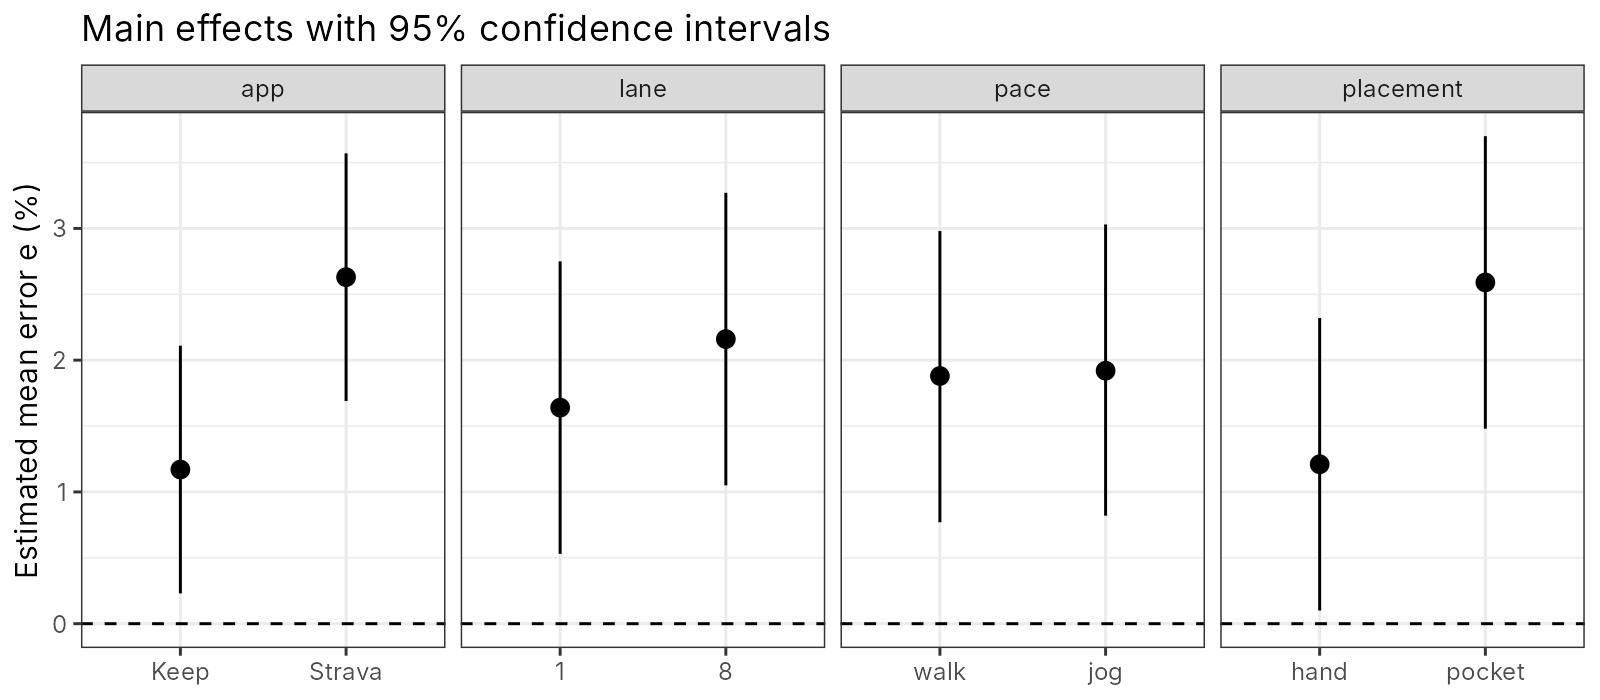
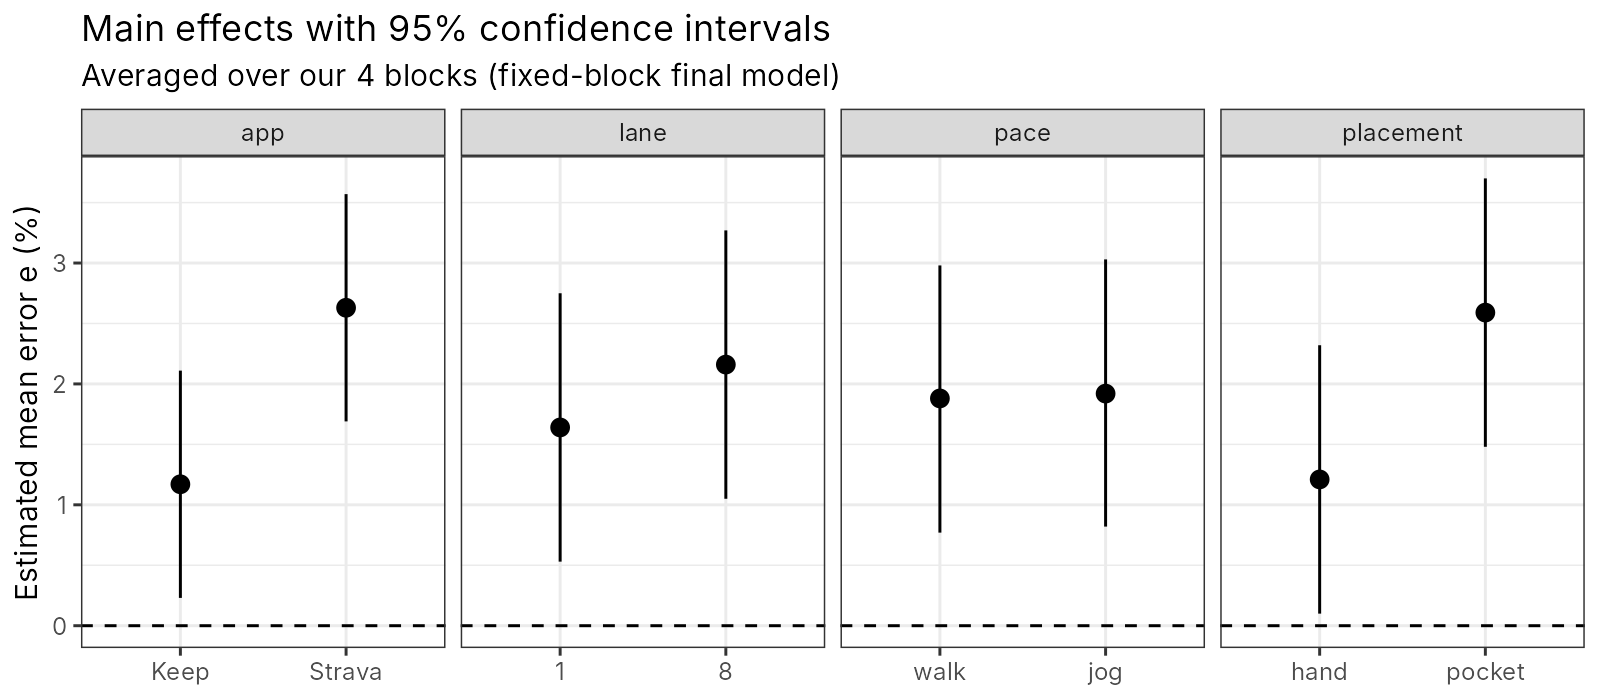
Label the main-effects plot as averaged over our 4 blocks

diff --git a/docs/index.html b/docs/index.html
@@ -1505,7 +1505,7 @@ plus the 10 m resolution, so power is limited and “not detected” must be
 read with care.</p>
 <details class="rcode">
 <summary>
-R code · <code>code/02_analysis.R</code>, lines 172–227
+R code · <code>code/02_analysis.R</code>, lines 172–228
 </summary>
 <div class="sourceCode" id="en-cb10"><pre
 class="sourceCode r"><code class="sourceCode r"><span id="en-cb10-1"><a href="#en-cb10-1" aria-hidden="true" tabindex="-1"></a><span class="co"># ---- 6. Estimated effects (aims 1 and 2) ------------------------------------</span></span>
@@ -1540,32 +1540,33 @@ class="sourceCode r"><code class="sourceCode r"><span id="en-cb10-1"><a href="#e
 <span id="en-cb10-30"><a href="#en-cb10-30" aria-hidden="true" tabindex="-1"></a>  <span class="fu">geom_pointrange</span>(<span class="fu">aes</span>(<span class="at">ymin =</span> lower.CL, <span class="at">ymax =</span> upper.CL)) <span class="sc">+</span></span>
 <span id="en-cb10-31"><a href="#en-cb10-31" aria-hidden="true" tabindex="-1"></a>  <span class="fu">facet_wrap</span>(<span class="sc">~</span> factor, <span class="at">scales =</span> <span class="st">&quot;free_x&quot;</span>, <span class="at">nrow =</span> <span class="dv">1</span>) <span class="sc">+</span></span>
 <span id="en-cb10-32"><a href="#en-cb10-32" aria-hidden="true" tabindex="-1"></a>  <span class="fu">labs</span>(<span class="at">x =</span> <span class="cn">NULL</span>, <span class="at">y =</span> <span class="st">&quot;Estimated mean error e (%)&quot;</span>,</span>
-<span id="en-cb10-33"><a href="#en-cb10-33" aria-hidden="true" tabindex="-1"></a>       <span class="at">title =</span> <span class="st">&quot;Main effects with 95% confidence intervals&quot;</span>) <span class="sc">+</span></span>
-<span id="en-cb10-34"><a href="#en-cb10-34" aria-hidden="true" tabindex="-1"></a>  <span class="fu">theme_bw</span>()</span>
-<span id="en-cb10-35"><a href="#en-cb10-35" aria-hidden="true" tabindex="-1"></a><span class="fu">ggsave</span>(<span class="st">&quot;figures/04_main_effects.png&quot;</span>, p_main, <span class="at">width =</span> <span class="dv">8</span>, <span class="at">height =</span> <span class="fl">3.5</span>, <span class="at">dpi =</span> <span class="dv">200</span>)</span>
-<span id="en-cb10-36"><a href="#en-cb10-36" aria-hidden="true" tabindex="-1"></a></span>
-<span id="en-cb10-37"><a href="#en-cb10-37" aria-hidden="true" tabindex="-1"></a><span class="co"># Interaction plots for the two-factor interactions of primary interest:</span></span>
-<span id="en-cb10-38"><a href="#en-cb10-38" aria-hidden="true" tabindex="-1"></a><span class="co"># x-axis factor, line (trace) factor</span></span>
-<span id="en-cb10-39"><a href="#en-cb10-39" aria-hidden="true" tabindex="-1"></a>pairs_of_interest <span class="ot">&lt;-</span> <span class="fu">list</span>(<span class="fu">c</span>(<span class="st">&quot;lane&quot;</span>, <span class="st">&quot;pace&quot;</span>), <span class="fu">c</span>(<span class="st">&quot;placement&quot;</span>, <span class="st">&quot;pace&quot;</span>),</span>
-<span id="en-cb10-40"><a href="#en-cb10-40" aria-hidden="true" tabindex="-1"></a>                          <span class="fu">c</span>(<span class="st">&quot;lane&quot;</span>, <span class="st">&quot;app&quot;</span>), <span class="fu">c</span>(<span class="st">&quot;pace&quot;</span>, <span class="st">&quot;app&quot;</span>))</span>
-<span id="en-cb10-41"><a href="#en-cb10-41" aria-hidden="true" tabindex="-1"></a>int_data <span class="ot">&lt;-</span> <span class="fu">do.call</span>(rbind, <span class="fu">lapply</span>(pairs_of_interest, <span class="cf">function</span>(p) {</span>
-<span id="en-cb10-42"><a href="#en-cb10-42" aria-hidden="true" tabindex="-1"></a>  em <span class="ot">&lt;-</span> <span class="fu">as.data.frame</span>(<span class="fu">emmeans</span>(fit, <span class="fu">as.formula</span>(<span class="fu">paste</span>(<span class="st">&quot;~&quot;</span>, p[<span class="dv">1</span>], <span class="st">&quot;*&quot;</span>, p[<span class="dv">2</span>]))))</span>
-<span id="en-cb10-43"><a href="#en-cb10-43" aria-hidden="true" tabindex="-1"></a>  <span class="fu">data.frame</span>(<span class="at">panel =</span> <span class="fu">paste</span>(p[<span class="dv">1</span>], <span class="st">&quot;x&quot;</span>, p[<span class="dv">2</span>]),</span>
-<span id="en-cb10-44"><a href="#en-cb10-44" aria-hidden="true" tabindex="-1"></a>             <span class="at">x =</span> <span class="fu">as.character</span>(em[[p[<span class="dv">1</span>]]]), <span class="at">trace =</span> <span class="fu">as.character</span>(em[[p[<span class="dv">2</span>]]]),</span>
-<span id="en-cb10-45"><a href="#en-cb10-45" aria-hidden="true" tabindex="-1"></a>             <span class="at">emmean =</span> em<span class="sc">$</span>emmean)</span>
-<span id="en-cb10-46"><a href="#en-cb10-46" aria-hidden="true" tabindex="-1"></a>}))</span>
-<span id="en-cb10-47"><a href="#en-cb10-47" aria-hidden="true" tabindex="-1"></a><span class="co"># keep the level order used in the data (walk before jog, etc.)</span></span>
-<span id="en-cb10-48"><a href="#en-cb10-48" aria-hidden="true" tabindex="-1"></a>int_data<span class="sc">$</span>x     <span class="ot">&lt;-</span> <span class="fu">factor</span>(int_data<span class="sc">$</span>x, <span class="at">levels =</span> <span class="fu">unique</span>(int_data<span class="sc">$</span>x))</span>
-<span id="en-cb10-49"><a href="#en-cb10-49" aria-hidden="true" tabindex="-1"></a>int_data<span class="sc">$</span>trace <span class="ot">&lt;-</span> <span class="fu">factor</span>(int_data<span class="sc">$</span>trace, <span class="at">levels =</span> <span class="fu">unique</span>(int_data<span class="sc">$</span>trace))</span>
-<span id="en-cb10-50"><a href="#en-cb10-50" aria-hidden="true" tabindex="-1"></a>p_int <span class="ot">&lt;-</span> <span class="fu">ggplot</span>(int_data, <span class="fu">aes</span>(<span class="at">x =</span> x, <span class="at">y =</span> emmean, <span class="at">colour =</span> trace, <span class="at">group =</span> trace)) <span class="sc">+</span></span>
-<span id="en-cb10-51"><a href="#en-cb10-51" aria-hidden="true" tabindex="-1"></a>  <span class="fu">geom_point</span>(<span class="at">size =</span> <span class="dv">2</span>) <span class="sc">+</span> <span class="fu">geom_line</span>() <span class="sc">+</span></span>
-<span id="en-cb10-52"><a href="#en-cb10-52" aria-hidden="true" tabindex="-1"></a>  <span class="fu">facet_wrap</span>(<span class="sc">~</span> panel, <span class="at">scales =</span> <span class="st">&quot;free_x&quot;</span>) <span class="sc">+</span></span>
-<span id="en-cb10-53"><a href="#en-cb10-53" aria-hidden="true" tabindex="-1"></a>  <span class="fu">labs</span>(<span class="at">x =</span> <span class="cn">NULL</span>, <span class="at">y =</span> <span class="st">&quot;Estimated mean error e (%)&quot;</span>, <span class="at">colour =</span> <span class="st">&quot;Line&quot;</span>,</span>
-<span id="en-cb10-54"><a href="#en-cb10-54" aria-hidden="true" tabindex="-1"></a>       <span class="at">title =</span> <span class="st">&quot;Two-factor interactions (parallel lines = no interaction)&quot;</span>) <span class="sc">+</span></span>
-<span id="en-cb10-55"><a href="#en-cb10-55" aria-hidden="true" tabindex="-1"></a>  <span class="fu">theme_bw</span>()</span>
-<span id="en-cb10-56"><a href="#en-cb10-56" aria-hidden="true" tabindex="-1"></a><span class="fu">ggsave</span>(<span class="st">&quot;figures/05_interactions.png&quot;</span>, p_int, <span class="at">width =</span> <span class="dv">8</span>, <span class="at">height =</span> <span class="dv">6</span>, <span class="at">dpi =</span> <span class="dv">200</span>)</span></code></pre></div>
+<span id="en-cb10-33"><a href="#en-cb10-33" aria-hidden="true" tabindex="-1"></a>       <span class="at">title =</span> <span class="st">&quot;Main effects with 95% confidence intervals&quot;</span>,</span>
+<span id="en-cb10-34"><a href="#en-cb10-34" aria-hidden="true" tabindex="-1"></a>       <span class="at">subtitle =</span> <span class="st">&quot;Averaged over our 4 blocks (fixed-block final model)&quot;</span>) <span class="sc">+</span></span>
+<span id="en-cb10-35"><a href="#en-cb10-35" aria-hidden="true" tabindex="-1"></a>  <span class="fu">theme_bw</span>()</span>
+<span id="en-cb10-36"><a href="#en-cb10-36" aria-hidden="true" tabindex="-1"></a><span class="fu">ggsave</span>(<span class="st">&quot;figures/04_main_effects.png&quot;</span>, p_main, <span class="at">width =</span> <span class="dv">8</span>, <span class="at">height =</span> <span class="fl">3.5</span>, <span class="at">dpi =</span> <span class="dv">200</span>)</span>
+<span id="en-cb10-37"><a href="#en-cb10-37" aria-hidden="true" tabindex="-1"></a></span>
+<span id="en-cb10-38"><a href="#en-cb10-38" aria-hidden="true" tabindex="-1"></a><span class="co"># Interaction plots for the two-factor interactions of primary interest:</span></span>
+<span id="en-cb10-39"><a href="#en-cb10-39" aria-hidden="true" tabindex="-1"></a><span class="co"># x-axis factor, line (trace) factor</span></span>
+<span id="en-cb10-40"><a href="#en-cb10-40" aria-hidden="true" tabindex="-1"></a>pairs_of_interest <span class="ot">&lt;-</span> <span class="fu">list</span>(<span class="fu">c</span>(<span class="st">&quot;lane&quot;</span>, <span class="st">&quot;pace&quot;</span>), <span class="fu">c</span>(<span class="st">&quot;placement&quot;</span>, <span class="st">&quot;pace&quot;</span>),</span>
+<span id="en-cb10-41"><a href="#en-cb10-41" aria-hidden="true" tabindex="-1"></a>                          <span class="fu">c</span>(<span class="st">&quot;lane&quot;</span>, <span class="st">&quot;app&quot;</span>), <span class="fu">c</span>(<span class="st">&quot;pace&quot;</span>, <span class="st">&quot;app&quot;</span>))</span>
+<span id="en-cb10-42"><a href="#en-cb10-42" aria-hidden="true" tabindex="-1"></a>int_data <span class="ot">&lt;-</span> <span class="fu">do.call</span>(rbind, <span class="fu">lapply</span>(pairs_of_interest, <span class="cf">function</span>(p) {</span>
+<span id="en-cb10-43"><a href="#en-cb10-43" aria-hidden="true" tabindex="-1"></a>  em <span class="ot">&lt;-</span> <span class="fu">as.data.frame</span>(<span class="fu">emmeans</span>(fit, <span class="fu">as.formula</span>(<span class="fu">paste</span>(<span class="st">&quot;~&quot;</span>, p[<span class="dv">1</span>], <span class="st">&quot;*&quot;</span>, p[<span class="dv">2</span>]))))</span>
+<span id="en-cb10-44"><a href="#en-cb10-44" aria-hidden="true" tabindex="-1"></a>  <span class="fu">data.frame</span>(<span class="at">panel =</span> <span class="fu">paste</span>(p[<span class="dv">1</span>], <span class="st">&quot;x&quot;</span>, p[<span class="dv">2</span>]),</span>
+<span id="en-cb10-45"><a href="#en-cb10-45" aria-hidden="true" tabindex="-1"></a>             <span class="at">x =</span> <span class="fu">as.character</span>(em[[p[<span class="dv">1</span>]]]), <span class="at">trace =</span> <span class="fu">as.character</span>(em[[p[<span class="dv">2</span>]]]),</span>
+<span id="en-cb10-46"><a href="#en-cb10-46" aria-hidden="true" tabindex="-1"></a>             <span class="at">emmean =</span> em<span class="sc">$</span>emmean)</span>
+<span id="en-cb10-47"><a href="#en-cb10-47" aria-hidden="true" tabindex="-1"></a>}))</span>
+<span id="en-cb10-48"><a href="#en-cb10-48" aria-hidden="true" tabindex="-1"></a><span class="co"># keep the level order used in the data (walk before jog, etc.)</span></span>
+<span id="en-cb10-49"><a href="#en-cb10-49" aria-hidden="true" tabindex="-1"></a>int_data<span class="sc">$</span>x     <span class="ot">&lt;-</span> <span class="fu">factor</span>(int_data<span class="sc">$</span>x, <span class="at">levels =</span> <span class="fu">unique</span>(int_data<span class="sc">$</span>x))</span>
+<span id="en-cb10-50"><a href="#en-cb10-50" aria-hidden="true" tabindex="-1"></a>int_data<span class="sc">$</span>trace <span class="ot">&lt;-</span> <span class="fu">factor</span>(int_data<span class="sc">$</span>trace, <span class="at">levels =</span> <span class="fu">unique</span>(int_data<span class="sc">$</span>trace))</span>
+<span id="en-cb10-51"><a href="#en-cb10-51" aria-hidden="true" tabindex="-1"></a>p_int <span class="ot">&lt;-</span> <span class="fu">ggplot</span>(int_data, <span class="fu">aes</span>(<span class="at">x =</span> x, <span class="at">y =</span> emmean, <span class="at">colour =</span> trace, <span class="at">group =</span> trace)) <span class="sc">+</span></span>
+<span id="en-cb10-52"><a href="#en-cb10-52" aria-hidden="true" tabindex="-1"></a>  <span class="fu">geom_point</span>(<span class="at">size =</span> <span class="dv">2</span>) <span class="sc">+</span> <span class="fu">geom_line</span>() <span class="sc">+</span></span>
+<span id="en-cb10-53"><a href="#en-cb10-53" aria-hidden="true" tabindex="-1"></a>  <span class="fu">facet_wrap</span>(<span class="sc">~</span> panel, <span class="at">scales =</span> <span class="st">&quot;free_x&quot;</span>) <span class="sc">+</span></span>
+<span id="en-cb10-54"><a href="#en-cb10-54" aria-hidden="true" tabindex="-1"></a>  <span class="fu">labs</span>(<span class="at">x =</span> <span class="cn">NULL</span>, <span class="at">y =</span> <span class="st">&quot;Estimated mean error e (%)&quot;</span>, <span class="at">colour =</span> <span class="st">&quot;Line&quot;</span>,</span>
+<span id="en-cb10-55"><a href="#en-cb10-55" aria-hidden="true" tabindex="-1"></a>       <span class="at">title =</span> <span class="st">&quot;Two-factor interactions (parallel lines = no interaction)&quot;</span>) <span class="sc">+</span></span>
+<span id="en-cb10-56"><a href="#en-cb10-56" aria-hidden="true" tabindex="-1"></a>  <span class="fu">theme_bw</span>()</span>
+<span id="en-cb10-57"><a href="#en-cb10-57" aria-hidden="true" tabindex="-1"></a><span class="fu">ggsave</span>(<span class="st">&quot;figures/05_interactions.png&quot;</span>, p_int, <span class="at">width =</span> <span class="dv">8</span>, <span class="at">height =</span> <span class="dv">6</span>, <span class="at">dpi =</span> <span class="dv">200</span>)</span></code></pre></div>
 <p class="rcode-link">
-<a href="https://github.com/z-boyi/gps-running-accuracy-doe/blob/main/code/02_analysis.R#L172-L227">View
+<a href="https://github.com/z-boyi/gps-running-accuracy-doe/blob/main/code/02_analysis.R#L172-L228">View
 on GitHub</a>
 </p>
 </details>
@@ -1614,7 +1615,7 @@ assumption and see whether the conclusion holds. If it does, the
 conclusion does not depend on that assumption.</p>
 <details class="rcode">
 <summary>
-R code · <code>code/02_analysis.R</code>, lines 229–242
+R code · <code>code/02_analysis.R</code>, lines 230–243
 </summary>
 <div class="sourceCode" id="en-cb11"><pre
 class="sourceCode r"><code class="sourceCode r"><span id="en-cb11-1"><a href="#en-cb11-1" aria-hidden="true" tabindex="-1"></a><span class="co"># ---- 7. Sensitivity to the true lap length ----------------------------------</span></span>
@@ -1632,7 +1633,7 @@ class="sourceCode r"><code class="sourceCode r"><span id="en-cb11-1"><a href="#e
 <span id="en-cb11-13"><a href="#en-cb11-13" aria-hidden="true" tabindex="-1"></a>              a[<span class="st">&quot;block:app&quot;</span>, <span class="st">&quot;Pr(&gt;F)&quot;</span>], a[<span class="st">&quot;app&quot;</span>, <span class="st">&quot;Pr(&gt;F)&quot;</span>]))</span>
 <span id="en-cb11-14"><a href="#en-cb11-14" aria-hidden="true" tabindex="-1"></a>}</span></code></pre></div>
 <p class="rcode-link">
-<a href="https://github.com/z-boyi/gps-running-accuracy-doe/blob/main/code/02_analysis.R#L229-L242">View
+<a href="https://github.com/z-boyi/gps-running-accuracy-doe/blob/main/code/02_analysis.R#L230-L243">View
 on GitHub</a>
 </p>
 </details>
@@ -3070,7 +3071,7 @@ app × 组合只有 4 个读数，再加上 10 m
 的精度限制，功效有限。所以“没检测到”要谨慎解读。</p>
 <details class="rcode">
 <summary>
-R 代码 · <code>code/02_analysis.R</code> 第 172–227 行
+R 代码 · <code>code/02_analysis.R</code> 第 172–228 行
 </summary>
 <div class="sourceCode" id="zh-cb10"><pre
 class="sourceCode r"><code class="sourceCode r"><span id="zh-cb10-1"><a href="#zh-cb10-1" aria-hidden="true" tabindex="-1"></a><span class="co"># ---- 6. Estimated effects (aims 1 and 2) ------------------------------------</span></span>
@@ -3105,32 +3106,33 @@ class="sourceCode r"><code class="sourceCode r"><span id="zh-cb10-1"><a href="#z
 <span id="zh-cb10-30"><a href="#zh-cb10-30" aria-hidden="true" tabindex="-1"></a>  <span class="fu">geom_pointrange</span>(<span class="fu">aes</span>(<span class="at">ymin =</span> lower.CL, <span class="at">ymax =</span> upper.CL)) <span class="sc">+</span></span>
 <span id="zh-cb10-31"><a href="#zh-cb10-31" aria-hidden="true" tabindex="-1"></a>  <span class="fu">facet_wrap</span>(<span class="sc">~</span> factor, <span class="at">scales =</span> <span class="st">&quot;free_x&quot;</span>, <span class="at">nrow =</span> <span class="dv">1</span>) <span class="sc">+</span></span>
 <span id="zh-cb10-32"><a href="#zh-cb10-32" aria-hidden="true" tabindex="-1"></a>  <span class="fu">labs</span>(<span class="at">x =</span> <span class="cn">NULL</span>, <span class="at">y =</span> <span class="st">&quot;Estimated mean error e (%)&quot;</span>,</span>
-<span id="zh-cb10-33"><a href="#zh-cb10-33" aria-hidden="true" tabindex="-1"></a>       <span class="at">title =</span> <span class="st">&quot;Main effects with 95% confidence intervals&quot;</span>) <span class="sc">+</span></span>
-<span id="zh-cb10-34"><a href="#zh-cb10-34" aria-hidden="true" tabindex="-1"></a>  <span class="fu">theme_bw</span>()</span>
-<span id="zh-cb10-35"><a href="#zh-cb10-35" aria-hidden="true" tabindex="-1"></a><span class="fu">ggsave</span>(<span class="st">&quot;figures/04_main_effects.png&quot;</span>, p_main, <span class="at">width =</span> <span class="dv">8</span>, <span class="at">height =</span> <span class="fl">3.5</span>, <span class="at">dpi =</span> <span class="dv">200</span>)</span>
-<span id="zh-cb10-36"><a href="#zh-cb10-36" aria-hidden="true" tabindex="-1"></a></span>
-<span id="zh-cb10-37"><a href="#zh-cb10-37" aria-hidden="true" tabindex="-1"></a><span class="co"># Interaction plots for the two-factor interactions of primary interest:</span></span>
-<span id="zh-cb10-38"><a href="#zh-cb10-38" aria-hidden="true" tabindex="-1"></a><span class="co"># x-axis factor, line (trace) factor</span></span>
-<span id="zh-cb10-39"><a href="#zh-cb10-39" aria-hidden="true" tabindex="-1"></a>pairs_of_interest <span class="ot">&lt;-</span> <span class="fu">list</span>(<span class="fu">c</span>(<span class="st">&quot;lane&quot;</span>, <span class="st">&quot;pace&quot;</span>), <span class="fu">c</span>(<span class="st">&quot;placement&quot;</span>, <span class="st">&quot;pace&quot;</span>),</span>
-<span id="zh-cb10-40"><a href="#zh-cb10-40" aria-hidden="true" tabindex="-1"></a>                          <span class="fu">c</span>(<span class="st">&quot;lane&quot;</span>, <span class="st">&quot;app&quot;</span>), <span class="fu">c</span>(<span class="st">&quot;pace&quot;</span>, <span class="st">&quot;app&quot;</span>))</span>
-<span id="zh-cb10-41"><a href="#zh-cb10-41" aria-hidden="true" tabindex="-1"></a>int_data <span class="ot">&lt;-</span> <span class="fu">do.call</span>(rbind, <span class="fu">lapply</span>(pairs_of_interest, <span class="cf">function</span>(p) {</span>
-<span id="zh-cb10-42"><a href="#zh-cb10-42" aria-hidden="true" tabindex="-1"></a>  em <span class="ot">&lt;-</span> <span class="fu">as.data.frame</span>(<span class="fu">emmeans</span>(fit, <span class="fu">as.formula</span>(<span class="fu">paste</span>(<span class="st">&quot;~&quot;</span>, p[<span class="dv">1</span>], <span class="st">&quot;*&quot;</span>, p[<span class="dv">2</span>]))))</span>
-<span id="zh-cb10-43"><a href="#zh-cb10-43" aria-hidden="true" tabindex="-1"></a>  <span class="fu">data.frame</span>(<span class="at">panel =</span> <span class="fu">paste</span>(p[<span class="dv">1</span>], <span class="st">&quot;x&quot;</span>, p[<span class="dv">2</span>]),</span>
-<span id="zh-cb10-44"><a href="#zh-cb10-44" aria-hidden="true" tabindex="-1"></a>             <span class="at">x =</span> <span class="fu">as.character</span>(em[[p[<span class="dv">1</span>]]]), <span class="at">trace =</span> <span class="fu">as.character</span>(em[[p[<span class="dv">2</span>]]]),</span>
-<span id="zh-cb10-45"><a href="#zh-cb10-45" aria-hidden="true" tabindex="-1"></a>             <span class="at">emmean =</span> em<span class="sc">$</span>emmean)</span>
-<span id="zh-cb10-46"><a href="#zh-cb10-46" aria-hidden="true" tabindex="-1"></a>}))</span>
-<span id="zh-cb10-47"><a href="#zh-cb10-47" aria-hidden="true" tabindex="-1"></a><span class="co"># keep the level order used in the data (walk before jog, etc.)</span></span>
-<span id="zh-cb10-48"><a href="#zh-cb10-48" aria-hidden="true" tabindex="-1"></a>int_data<span class="sc">$</span>x     <span class="ot">&lt;-</span> <span class="fu">factor</span>(int_data<span class="sc">$</span>x, <span class="at">levels =</span> <span class="fu">unique</span>(int_data<span class="sc">$</span>x))</span>
-<span id="zh-cb10-49"><a href="#zh-cb10-49" aria-hidden="true" tabindex="-1"></a>int_data<span class="sc">$</span>trace <span class="ot">&lt;-</span> <span class="fu">factor</span>(int_data<span class="sc">$</span>trace, <span class="at">levels =</span> <span class="fu">unique</span>(int_data<span class="sc">$</span>trace))</span>
-<span id="zh-cb10-50"><a href="#zh-cb10-50" aria-hidden="true" tabindex="-1"></a>p_int <span class="ot">&lt;-</span> <span class="fu">ggplot</span>(int_data, <span class="fu">aes</span>(<span class="at">x =</span> x, <span class="at">y =</span> emmean, <span class="at">colour =</span> trace, <span class="at">group =</span> trace)) <span class="sc">+</span></span>
-<span id="zh-cb10-51"><a href="#zh-cb10-51" aria-hidden="true" tabindex="-1"></a>  <span class="fu">geom_point</span>(<span class="at">size =</span> <span class="dv">2</span>) <span class="sc">+</span> <span class="fu">geom_line</span>() <span class="sc">+</span></span>
-<span id="zh-cb10-52"><a href="#zh-cb10-52" aria-hidden="true" tabindex="-1"></a>  <span class="fu">facet_wrap</span>(<span class="sc">~</span> panel, <span class="at">scales =</span> <span class="st">&quot;free_x&quot;</span>) <span class="sc">+</span></span>
-<span id="zh-cb10-53"><a href="#zh-cb10-53" aria-hidden="true" tabindex="-1"></a>  <span class="fu">labs</span>(<span class="at">x =</span> <span class="cn">NULL</span>, <span class="at">y =</span> <span class="st">&quot;Estimated mean error e (%)&quot;</span>, <span class="at">colour =</span> <span class="st">&quot;Line&quot;</span>,</span>
-<span id="zh-cb10-54"><a href="#zh-cb10-54" aria-hidden="true" tabindex="-1"></a>       <span class="at">title =</span> <span class="st">&quot;Two-factor interactions (parallel lines = no interaction)&quot;</span>) <span class="sc">+</span></span>
-<span id="zh-cb10-55"><a href="#zh-cb10-55" aria-hidden="true" tabindex="-1"></a>  <span class="fu">theme_bw</span>()</span>
-<span id="zh-cb10-56"><a href="#zh-cb10-56" aria-hidden="true" tabindex="-1"></a><span class="fu">ggsave</span>(<span class="st">&quot;figures/05_interactions.png&quot;</span>, p_int, <span class="at">width =</span> <span class="dv">8</span>, <span class="at">height =</span> <span class="dv">6</span>, <span class="at">dpi =</span> <span class="dv">200</span>)</span></code></pre></div>
+<span id="zh-cb10-33"><a href="#zh-cb10-33" aria-hidden="true" tabindex="-1"></a>       <span class="at">title =</span> <span class="st">&quot;Main effects with 95% confidence intervals&quot;</span>,</span>
+<span id="zh-cb10-34"><a href="#zh-cb10-34" aria-hidden="true" tabindex="-1"></a>       <span class="at">subtitle =</span> <span class="st">&quot;Averaged over our 4 blocks (fixed-block final model)&quot;</span>) <span class="sc">+</span></span>
+<span id="zh-cb10-35"><a href="#zh-cb10-35" aria-hidden="true" tabindex="-1"></a>  <span class="fu">theme_bw</span>()</span>
+<span id="zh-cb10-36"><a href="#zh-cb10-36" aria-hidden="true" tabindex="-1"></a><span class="fu">ggsave</span>(<span class="st">&quot;figures/04_main_effects.png&quot;</span>, p_main, <span class="at">width =</span> <span class="dv">8</span>, <span class="at">height =</span> <span class="fl">3.5</span>, <span class="at">dpi =</span> <span class="dv">200</span>)</span>
+<span id="zh-cb10-37"><a href="#zh-cb10-37" aria-hidden="true" tabindex="-1"></a></span>
+<span id="zh-cb10-38"><a href="#zh-cb10-38" aria-hidden="true" tabindex="-1"></a><span class="co"># Interaction plots for the two-factor interactions of primary interest:</span></span>
+<span id="zh-cb10-39"><a href="#zh-cb10-39" aria-hidden="true" tabindex="-1"></a><span class="co"># x-axis factor, line (trace) factor</span></span>
+<span id="zh-cb10-40"><a href="#zh-cb10-40" aria-hidden="true" tabindex="-1"></a>pairs_of_interest <span class="ot">&lt;-</span> <span class="fu">list</span>(<span class="fu">c</span>(<span class="st">&quot;lane&quot;</span>, <span class="st">&quot;pace&quot;</span>), <span class="fu">c</span>(<span class="st">&quot;placement&quot;</span>, <span class="st">&quot;pace&quot;</span>),</span>
+<span id="zh-cb10-41"><a href="#zh-cb10-41" aria-hidden="true" tabindex="-1"></a>                          <span class="fu">c</span>(<span class="st">&quot;lane&quot;</span>, <span class="st">&quot;app&quot;</span>), <span class="fu">c</span>(<span class="st">&quot;pace&quot;</span>, <span class="st">&quot;app&quot;</span>))</span>
+<span id="zh-cb10-42"><a href="#zh-cb10-42" aria-hidden="true" tabindex="-1"></a>int_data <span class="ot">&lt;-</span> <span class="fu">do.call</span>(rbind, <span class="fu">lapply</span>(pairs_of_interest, <span class="cf">function</span>(p) {</span>
+<span id="zh-cb10-43"><a href="#zh-cb10-43" aria-hidden="true" tabindex="-1"></a>  em <span class="ot">&lt;-</span> <span class="fu">as.data.frame</span>(<span class="fu">emmeans</span>(fit, <span class="fu">as.formula</span>(<span class="fu">paste</span>(<span class="st">&quot;~&quot;</span>, p[<span class="dv">1</span>], <span class="st">&quot;*&quot;</span>, p[<span class="dv">2</span>]))))</span>
+<span id="zh-cb10-44"><a href="#zh-cb10-44" aria-hidden="true" tabindex="-1"></a>  <span class="fu">data.frame</span>(<span class="at">panel =</span> <span class="fu">paste</span>(p[<span class="dv">1</span>], <span class="st">&quot;x&quot;</span>, p[<span class="dv">2</span>]),</span>
+<span id="zh-cb10-45"><a href="#zh-cb10-45" aria-hidden="true" tabindex="-1"></a>             <span class="at">x =</span> <span class="fu">as.character</span>(em[[p[<span class="dv">1</span>]]]), <span class="at">trace =</span> <span class="fu">as.character</span>(em[[p[<span class="dv">2</span>]]]),</span>
+<span id="zh-cb10-46"><a href="#zh-cb10-46" aria-hidden="true" tabindex="-1"></a>             <span class="at">emmean =</span> em<span class="sc">$</span>emmean)</span>
+<span id="zh-cb10-47"><a href="#zh-cb10-47" aria-hidden="true" tabindex="-1"></a>}))</span>
+<span id="zh-cb10-48"><a href="#zh-cb10-48" aria-hidden="true" tabindex="-1"></a><span class="co"># keep the level order used in the data (walk before jog, etc.)</span></span>
+<span id="zh-cb10-49"><a href="#zh-cb10-49" aria-hidden="true" tabindex="-1"></a>int_data<span class="sc">$</span>x     <span class="ot">&lt;-</span> <span class="fu">factor</span>(int_data<span class="sc">$</span>x, <span class="at">levels =</span> <span class="fu">unique</span>(int_data<span class="sc">$</span>x))</span>
+<span id="zh-cb10-50"><a href="#zh-cb10-50" aria-hidden="true" tabindex="-1"></a>int_data<span class="sc">$</span>trace <span class="ot">&lt;-</span> <span class="fu">factor</span>(int_data<span class="sc">$</span>trace, <span class="at">levels =</span> <span class="fu">unique</span>(int_data<span class="sc">$</span>trace))</span>
+<span id="zh-cb10-51"><a href="#zh-cb10-51" aria-hidden="true" tabindex="-1"></a>p_int <span class="ot">&lt;-</span> <span class="fu">ggplot</span>(int_data, <span class="fu">aes</span>(<span class="at">x =</span> x, <span class="at">y =</span> emmean, <span class="at">colour =</span> trace, <span class="at">group =</span> trace)) <span class="sc">+</span></span>
+<span id="zh-cb10-52"><a href="#zh-cb10-52" aria-hidden="true" tabindex="-1"></a>  <span class="fu">geom_point</span>(<span class="at">size =</span> <span class="dv">2</span>) <span class="sc">+</span> <span class="fu">geom_line</span>() <span class="sc">+</span></span>
+<span id="zh-cb10-53"><a href="#zh-cb10-53" aria-hidden="true" tabindex="-1"></a>  <span class="fu">facet_wrap</span>(<span class="sc">~</span> panel, <span class="at">scales =</span> <span class="st">&quot;free_x&quot;</span>) <span class="sc">+</span></span>
+<span id="zh-cb10-54"><a href="#zh-cb10-54" aria-hidden="true" tabindex="-1"></a>  <span class="fu">labs</span>(<span class="at">x =</span> <span class="cn">NULL</span>, <span class="at">y =</span> <span class="st">&quot;Estimated mean error e (%)&quot;</span>, <span class="at">colour =</span> <span class="st">&quot;Line&quot;</span>,</span>
+<span id="zh-cb10-55"><a href="#zh-cb10-55" aria-hidden="true" tabindex="-1"></a>       <span class="at">title =</span> <span class="st">&quot;Two-factor interactions (parallel lines = no interaction)&quot;</span>) <span class="sc">+</span></span>
+<span id="zh-cb10-56"><a href="#zh-cb10-56" aria-hidden="true" tabindex="-1"></a>  <span class="fu">theme_bw</span>()</span>
+<span id="zh-cb10-57"><a href="#zh-cb10-57" aria-hidden="true" tabindex="-1"></a><span class="fu">ggsave</span>(<span class="st">&quot;figures/05_interactions.png&quot;</span>, p_int, <span class="at">width =</span> <span class="dv">8</span>, <span class="at">height =</span> <span class="dv">6</span>, <span class="at">dpi =</span> <span class="dv">200</span>)</span></code></pre></div>
 <p class="rcode-link">
-<a href="https://github.com/z-boyi/gps-running-accuracy-doe/blob/main/code/02_analysis.R#L172-L227">在
+<a href="https://github.com/z-boyi/gps-running-accuracy-doe/blob/main/code/02_analysis.R#L172-L228">在
 GitHub 上查看</a>
 </p>
 </details>
@@ -3172,7 +3174,7 @@ GitHub 上查看</a>
 <p><strong>敏感性分析</strong>的一般含义：改变一个不确定的假设，看结论是否稳定。结论不变，说明它不依赖这个假设。</p>
 <details class="rcode">
 <summary>
-R 代码 · <code>code/02_analysis.R</code> 第 229–242 行
+R 代码 · <code>code/02_analysis.R</code> 第 230–243 行
 </summary>
 <div class="sourceCode" id="zh-cb11"><pre
 class="sourceCode r"><code class="sourceCode r"><span id="zh-cb11-1"><a href="#zh-cb11-1" aria-hidden="true" tabindex="-1"></a><span class="co"># ---- 7. Sensitivity to the true lap length ----------------------------------</span></span>
@@ -3190,7 +3192,7 @@ class="sourceCode r"><code class="sourceCode r"><span id="zh-cb11-1"><a href="#z
 <span id="zh-cb11-13"><a href="#zh-cb11-13" aria-hidden="true" tabindex="-1"></a>              a[<span class="st">&quot;block:app&quot;</span>, <span class="st">&quot;Pr(&gt;F)&quot;</span>], a[<span class="st">&quot;app&quot;</span>, <span class="st">&quot;Pr(&gt;F)&quot;</span>]))</span>
 <span id="zh-cb11-14"><a href="#zh-cb11-14" aria-hidden="true" tabindex="-1"></a>}</span></code></pre></div>
 <p class="rcode-link">
-<a href="https://github.com/z-boyi/gps-running-accuracy-doe/blob/main/code/02_analysis.R#L229-L242">在
+<a href="https://github.com/z-boyi/gps-running-accuracy-doe/blob/main/code/02_analysis.R#L230-L243">在
 GitHub 上查看</a>
 </p>
 </details>
